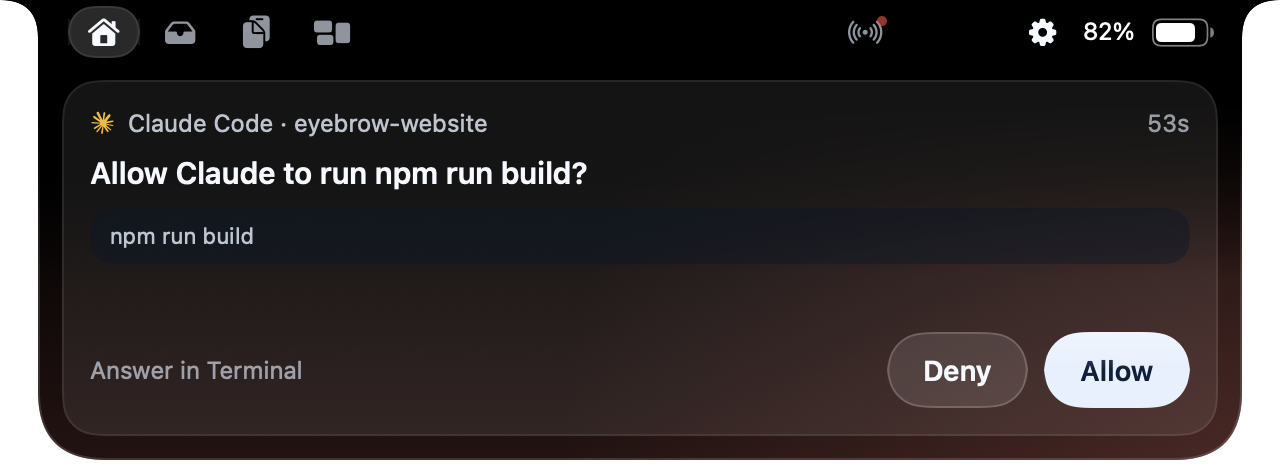
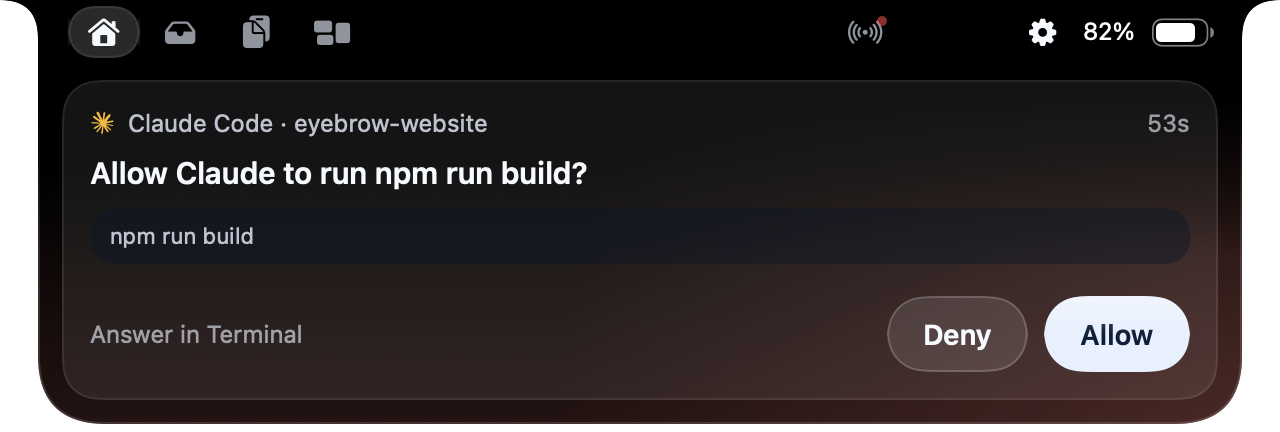
Resize the notch with the scroll through the features
Short views in the app now fit their content, so the call, meeting,
Claude approval and audio captures are retaken at their new heights.
Each feature carries its capture's height, and between two features the
notch takes a height in between: a shorter capture gets the notch body
continued below it, a taller one is cut with rounded corners, until the
scroll settles on a feature.

diff --git a/components/landing/NotchStory.tsx b/components/landing/NotchStory.tsx
@@ -13,22 +13,44 @@ import { site } from "@/lib/site";
    Windows too short to pin show the three screens one after another. */
 
 const items = [
-  { id: "home", label: "Home", src: "open-home-calendar.png", hue: 18, body: "The song, the weather and your next meeting, with Join.", alt: "Home with the calendar card: a week strip, today's events and a Join button" },
-  { id: "shelf", label: "Shelf", src: "open-shelf.png", hue: 268, body: "Drop files on the notch to hold them for later, or AirDrop them from there.", alt: "The Shelf holding three files, with an AirDrop target on the left" },
-  { id: "clipboard", label: "Clipboard", src: "open-clipboard.png", hue: 160, body: "Text, links, colours and images you copied, one ⇧ ⌘ C away.", alt: "Clipboard history with filters and copied text, a pinned link, a colour, an image and a file" },
-  { id: "widgets", label: "Widgets", src: "widgets-day.png", hue: 225, body: "Clock, calendar, reminders, battery and weather, laid out your way.", alt: "A widget page: time and weather, today's calendar, reminders, battery, clock and weather" },
-  { id: "screenshot", label: "Screenshots", src: "open-screenshot.png", hue: 335, body: "Each one lands here first: copy it, mark it up, pull the text out or save it.", alt: "A fresh screenshot in the notch with Copy, Annotate, Text and Save" },
-  { id: "claude", label: "Claude Code", src: "open-claude-approval.png", hue: 40, body: "When a session wants to run a command, Allow and Deny appear up top.", alt: "Claude Code in eyebrow-website asks to run npm run build, with Deny and Allow buttons" },
-  { id: "meeting", label: "Meetings", src: "open-meeting-reminder.png", hue: 255, body: "A reminder drops down before the meeting starts, with the link to join.", alt: "A meeting reminder for Design Review with a Join button" },
-  { id: "call", label: "Calls", src: "open-call-tab.png", hue: 150, body: "Mute, camera and leave for the call you are on.", alt: "The call tab with Mute, Camera and Leave" },
-  { id: "notes", label: "Notes", src: "open-notes-composer.png", hue: 80, body: "The Notes widget: bold, lists, links and images, all kept on your Mac.", alt: "A note being edited in the notch, with a formatting toolbar and a bulleted list" },
-  { id: "colour", label: "Colour picker", src: "open-colour-picker.png", hue: 20, body: "The colour picker widget: pick off the screen, check contrast, copy.", alt: "The colour picker: a shade square, a hue slider, contrast grades on white and black, and HEX, RGB and HSL values" },
-  { id: "builds", label: "Builds", src: "open-builds.png", hue: 250, body: "The Builds widget: did the pipeline pass on GitHub or GitLab?", alt: "Builds: GitHub and GitLab runs, one running and one failed, with All, GitHub, GitLab and Local filters" },
-  { id: "weather", label: "Weather", src: "open-weather.png", hue: 205, body: "Now, and the next few hours.", alt: "The weather tab: temperature, conditions and an hourly forecast" },
-  { id: "audio", label: "Audio", src: "open-audio.png", hue: 300, body: "Volume, the output device and the microphone, in one place.", alt: "The audio tab: volume, output devices and input" },
+  { id: "home", h: 468, label: "Home", src: "open-home-calendar.png", hue: 18, body: "The song, the weather and your next meeting, with Join.", alt: "Home with the calendar card: a week strip, today's events and a Join button" },
+  { id: "shelf", h: 468, label: "Shelf", src: "open-shelf.png", hue: 268, body: "Drop files on the notch to hold them for later, or AirDrop them from there.", alt: "The Shelf holding three files, with an AirDrop target on the left" },
+  { id: "clipboard", h: 468, label: "Clipboard", src: "open-clipboard.png", hue: 160, body: "Text, links, colours and images you copied, one ⇧ ⌘ C away.", alt: "Clipboard history with filters and copied text, a pinned link, a colour, an image and a file" },
+  { id: "widgets", h: 468, label: "Widgets", src: "widgets-day.png", hue: 225, body: "Clock, calendar, reminders, battery and weather, laid out your way.", alt: "A widget page: time and weather, today's calendar, reminders, battery, clock and weather" },
+  { id: "screenshot", h: 468, label: "Screenshots", src: "open-screenshot.png", hue: 335, body: "Each one lands here first: copy it, mark it up, pull the text out or save it.", alt: "A fresh screenshot in the notch with Copy, Annotate, Text and Save" },
+  { id: "claude", h: 432, label: "Claude Code", src: "open-claude-approval.png", hue: 40, body: "When a session wants to run a command, Allow and Deny appear up top.", alt: "Claude Code in eyebrow-website asks to run npm run build, with Deny and Allow buttons" },
+  { id: "meeting", h: 374, label: "Meetings", src: "open-meeting-reminder.png", hue: 255, body: "A reminder drops down before the meeting starts, with the link to join.", alt: "A meeting reminder for Design Review with a Join button" },
+  { id: "call", h: 256, label: "Calls", src: "open-call-tab.png", hue: 150, body: "Mute, camera and leave for the call you are on.", alt: "The call tab with Mute, Camera and Leave" },
+  { id: "notes", h: 468, label: "Notes", src: "open-notes-composer.png", hue: 80, body: "The Notes widget: bold, lists, links and images, all kept on your Mac.", alt: "A note being edited in the notch, with a formatting toolbar and a bulleted list" },
+  { id: "colour", h: 478, label: "Colour picker", src: "open-colour-picker.png", hue: 20, body: "The colour picker widget: pick off the screen, check contrast, copy.", alt: "The colour picker: a shade square, a hue slider, contrast grades on white and black, and HEX, RGB and HSL values" },
+  { id: "builds", h: 468, label: "Builds", src: "open-builds.png", hue: 250, body: "The Builds widget: did the pipeline pass on GitHub or GitLab?", alt: "Builds: GitHub and GitLab runs, one running and one failed, with All, GitHub, GitLab and Local filters" },
+  { id: "weather", h: 468, label: "Weather", src: "open-weather.png", hue: 205, body: "Now, and the next few hours.", alt: "The weather tab: temperature, conditions and an hourly forecast" },
+  { id: "audio", h: 412, label: "Audio", src: "open-audio.png", hue: 300, body: "Volume, the output device and the microphone, in one place.", alt: "The audio tab: volume, output devices and input" },
 ] as const;
 
 const N = items.length;
+
+/* Each capture is as tall as its view needs (the call is short, Home is tall),
+   and the notch's body ends PAD px above the capture's bottom edge. Between two
+   features the notch takes a height in between, so it grows and shrinks with the
+   scroll. The body is inset SIDE px from the capture's edges, its corners R px. */
+const PAD = 8;
+const SIDE = 38;
+const R = 60;
+const heightAt = (p: number) => {
+  const i = clamp(Math.floor(p), 0, N - 1);
+  const j = Math.min(N - 1, i + 1);
+  return lerp(items[i].h, items[j].h, clamp(p - i));
+};
+/* A capture cut off at `cut` px (capture px), with the notch's rounded bottom corners. */
+const cutPath = (unit: number, cut: number) => {
+  const w = IW * unit;
+  const s = SIDE * unit;
+  const r = R * unit;
+  const y = (cut - PAD) * unit;
+  const f = (n: number) => n.toFixed(2);
+  return `path("M0 0 H${f(w)} V${f(y - r)} H${f(w - s)} A${f(r)} ${f(r)} 0 0 1 ${f(w - s - r)} ${f(y)} H${f(s + r)} A${f(r)} ${f(r)} 0 0 1 ${f(s)} ${f(y - r)} H0 Z")`;
+};
 
 /* The tabs, cut from the captures (1280 × 483 at 2×): centres across the top,
    then down the side once vertical tabs are on. The live-activity dot sits at
@@ -122,6 +144,10 @@ export default function NotchStory() {
   const icons = useRef<(HTMLImageElement | null)[]>([]);
   const live = useRef<HTMLImageElement>(null);
   const pill = useRef<HTMLSpanElement>(null);
+  const drop = useRef<HTMLDivElement>(null);
+  const body = useRef<HTMLDivElement>(null);
+  const rim = useRef<HTMLDivElement>(null);
+  const shots = useRef<(HTMLImageElement | null)[]>([]);
   const slots = useRef<Record<string, Rect>>({});
   const base = useRef(640);
   const pinned = useRef(false);
@@ -139,6 +165,7 @@ export default function NotchStory() {
     if (c0 && c1) stride.current = c1.offsetLeft - c0.offsetLeft;
     if (notch.current) {
       notch.current.style.width = `${base.current}px`;
+      notch.current.style.setProperty("--u", `${base.current / IW}px`);
       notch.current.dataset.ready = "";
     }
   }, []);
@@ -170,6 +197,14 @@ export default function NotchStory() {
       notch.current.style.transform = `translate3d(${x}px, ${y}px, 0) scale(${w / base.current})`;
     }
 
+    // The notch's height follows the scroll from one feature's height to the next.
+    const dh = heightAt(p);
+    const near = items[clamp(Math.round(p), 0, N - 1)].h;
+    drop.current?.style.setProperty("--dh", dh.toFixed(2));
+    shots.current.forEach((img, i) => {
+      if (img) img.style.clipPath = items[i].h > dh + 0.5 ? cutPath(base.current / IW, dh) : "";
+    });
+
     const vis = {
       hero: 1 - clamp(intro / 0.55),
       feat: clamp((intro - 0.45) / 0.55) * (1 - clamp(move / 0.55)),
@@ -183,6 +218,9 @@ export default function NotchStory() {
       el.style.visibility = v < 0.01 ? "hidden" : "visible";
       el.style.pointerEvents = v > 0.5 ? "auto" : "none";
     }
+    // The body under a shorter capture, and the rim along a cut-off taller one: only while resizing.
+    if (body.current) body.current.style.opacity = String(vis.feat);
+    if (rim.current) rim.current.style.opacity = String(vis.feat * clamp(Math.abs(dh - near) / 12));
     if (layers.current.hero) layers.current.hero.style.transform = `translate3d(0, ${(vis.hero - 1) * 48}px, 0)`;
     // The strip: a straight row of cards sliding sideways, the current one in the middle.
     if (track.current) track.current.style.transform = `translate3d(${(1 - vis.feat) * 48 - p * stride.current}px, 0, 0)`;
@@ -371,7 +409,7 @@ export default function NotchStory() {
                   <li key={v.id}>
                     <figure className="edge">
                       <Mac top notch={0.78}>
-                        <Shot src={v.src} w={640} width={1280} height={468} alt={v.alt} />
+                        <Shot src={v.src} w={640} width={1280} height={v.h} alt={v.alt} />
                       </Mac>
                       <figcaption>
                         <b>{v.label}</b>
@@ -455,11 +493,25 @@ export default function NotchStory() {
 
           {/* The one notch that travels through all three. */}
           <div ref={notch} className="story__notch" data-phase={view.phase} aria-hidden="true">
-            <div className="story__drop">
+            <div ref={drop} className="story__drop">
+              <div ref={body} className="story__fill" />
               <img className="story__img" data-on={view.phase === "hero"} src="/landing/open-home.png" alt="" width={1280} height={483} fetchPriority="high" />
               {items.map((v, i) => (
-                <img key={v.id} className="story__img" data-on={featOn === i} src={`/landing/${v.src}`} alt="" width={1280} height={468} loading={i < 2 ? "eager" : "lazy"} />
+                <img
+                  key={v.id}
+                  ref={(el) => {
+                    shots.current[i] = el;
+                  }}
+                  className="story__img"
+                  data-on={featOn === i}
+                  src={`/landing/${v.src}`}
+                  alt=""
+                  width={1280}
+                  height={v.h}
+                  loading={i < 2 ? "eager" : "lazy"}
+                />
               ))}
+              <div ref={rim} className="story__fill story__fill--rim" />
               <div className="story__tabsnotch" data-on={view.phase === "tabs"}>
                 {[...tabBases, "vertical"].map((b, i) => (
                   <img key={b} className="story__img" data-on={tabOn === i} src={`/landing/story/${b}.png`} alt="" width={1280} height={b === "home" || b === "vertical" ? 483 : 468} loading="lazy" />

diff --git a/app/(site)/site.css b/app/(site)/site.css
@@ -253,6 +253,11 @@ body { font-size: var(--text-md); }
 .story__drop { position: relative; aspect-ratio: 1280 / 483; animation: drop var(--dur-drop) var(--ease-out) both; }
 .story__img { position: absolute; inset: 0 auto auto 0; width: 100%; height: auto; opacity: 0; transition: opacity 300ms var(--ease-out); }
 .story__img[data-on="true"] { opacity: 1; }
+/* The notch's body at the height the scroll has reached (--dh, in capture px; --u is one capture px).
+   Under a capture shorter than that it shows as the rest of the notch; the rim draws the edge
+   along a taller capture cut short. Both match the capture exactly once a feature settles. */
+.story__fill { position: absolute; top: 0; left: calc(38 * var(--u, 0.5px)); right: calc(38 * var(--u, 0.5px)); height: calc((var(--dh, 468) - 8) * var(--u, 0.5px)); border-radius: 0 0 calc(60 * var(--u, 0.5px)) calc(60 * var(--u, 0.5px)); background: linear-gradient(to bottom, #000 30%, rgb(14 22 30)); opacity: 0; pointer-events: none; }
+.story__fill--rim { background: none; box-shadow: inset 0 -1px 0 rgb(255 255 255 / 0.16), inset 1px 0 0 rgb(255 255 255 / 0.08), inset -1px 0 0 rgb(255 255 255 / 0.08); }
 .story__tabsnotch { position: absolute; inset: 0; opacity: 0; transition: opacity 300ms var(--ease-out); }
 .story__tabsnotch[data-on="true"] { opacity: 1; }
 .story__pill { position: absolute; left: 0; top: 0; border-radius: 999px; background: rgb(41 41 41); box-shadow: inset 0 0 0 1px rgb(255 255 255 / 0.1); will-change: transform; }
